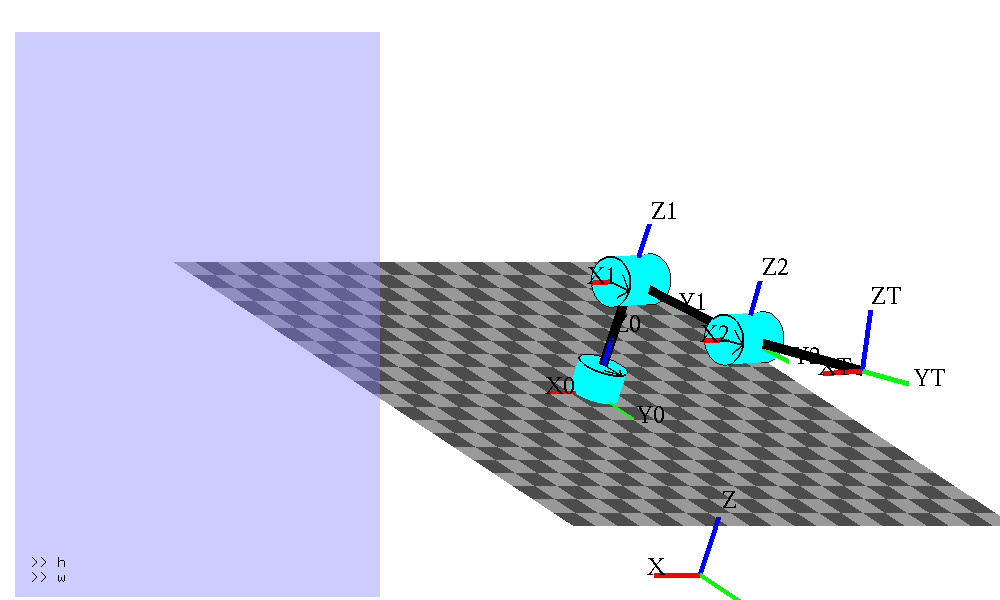
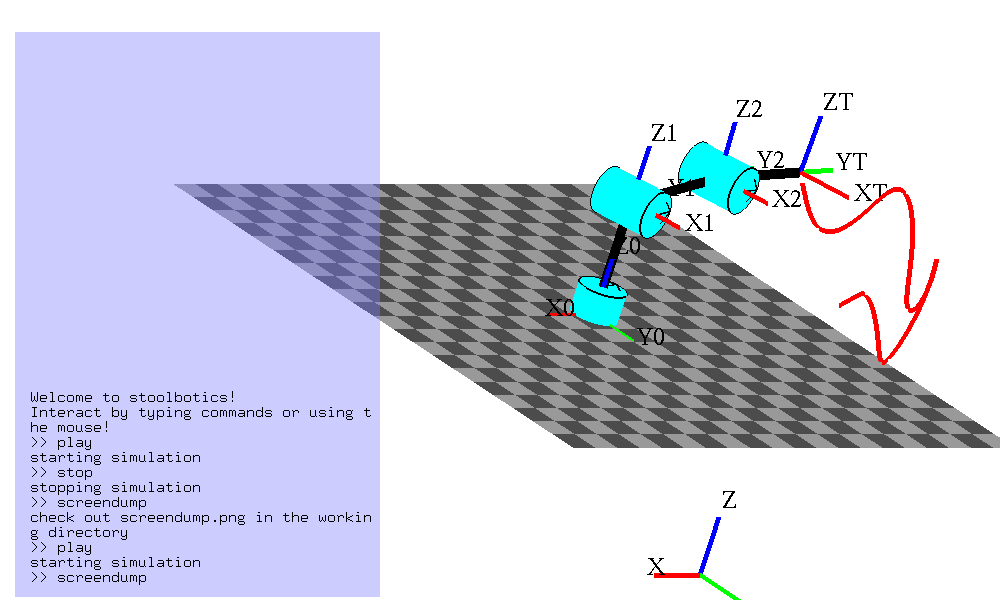
improvements to command line

diff --git a/simulator.py b/simulator.py
@@ -43,15 +43,21 @@ class simulator():
         self.room.scale = self.scale
         self.zoom = 1.6
 
+        
+        self.skew_mode = False
+        self.text = []
+        
+        self.prompt = ">> "
+        self.cmd = ''
+        self.cmd_selection = -1
+
         self.robot.forwardkin()
         self.robot.timestep()
         self.robot.print_vars()
         
-        self.text = ['Interact by typing commands or using the mouse!', 'Welcome to stoolbotics!']
-        self.text += " "
-        
-        self.cmd = ''
-        self.cmd_selection = -1
+        self.response_print('Welcome to stoolbotics!')
+        self.response_print('Interact by typing commands or using the mouse!')
+        self.command_print('')
         
     def timestep(self):
         self.robot.forwardkin()
@@ -80,7 +86,6 @@ class simulator():
         self.angleX += changeY
         self.angleY -= changeX
         
-        self.screenprint("Angle = (" + str(round(self.angleX, 2)) + ", " + str(round(self.angleY, 2)) + ")")
         if (self.angleX < 180):
             self.angleX = 180
         if (self.angleX > 360):
@@ -147,19 +152,56 @@ class simulator():
         elif key == GLUT_KEY_DOWN:
             if not self.cmd_selection == -1:
                 self.cmd_selection += 1
+                try:
+                    while self.text[self.cmd_selection][0] != 'c':
+                        self.cmd_selection += 1
+                except:
+                    pass
             if self.cmd_selection == -1:
-                self.cmd = self.text[-1] = ""
+                self.cmd = self.text[-1][1] = ""
             self.transY -= amount
         elif key == GLUT_KEY_UP:
             if not -self.cmd_selection == len(self.text):
                 self.cmd_selection -= 1
+                try:
+                    while self.text[self.cmd_selection][0] != 'c':
+                        self.cmd_selection -= 1
+                except:
+                    pass
             self.transY += amount
-        self.cmd = self.text[-1] = self.text[self.cmd_selection]
+        self.cmd = self.text[-1][1] = self.text[self.cmd_selection][1]
         glutPostRedisplay()
 
     def handle_cmd(self, cmd):
-        pass
-
+        if cmd == '':
+            return
+        elif cmd == 'play':
+            self.response_print('starting simulation')
+            glutIdleFunc(self.timestep)
+        elif cmd == 'stop':
+            self.response_print('stopping simulation')
+            glutIdleFunc(None)
+        elif '+' in cmd or '-' in cmd:
+            for _ in range(cmd.count('+')):
+                self.camera_zoom('in')
+            for _ in range(cmd.count('-')):
+                self.camera_zoom('out')
+        elif cmd == 'skew':
+            self.response_print('entering skew mode')
+            self.skew_mode = True
+        elif cmd == 'f':
+            self.tscale += .01
+        elif cmd == 'd':
+            self.tscale -= .01
+        elif cmd == 'screendump':
+            self.response_print('check out screendump.png in the working directory')
+            s = glReadPixels(0, 0, self.width, self.height, GL_RGB, GL_UNSIGNED_BYTE)
+            img = Image.new('RGB', (self.width, self.height))
+            img.fromstring(s)
+            img2 = img.transpose(Image.FLIP_TOP_BOTTOM)
+            img2.save("screendump.png")
+        else:
+            self.response_print('are you sure that\'s a command?')
     def keyboard(self, key, x, y):
         self._updateMouse(x, y)
         
@@ -168,49 +210,37 @@ class simulator():
         carriagereturn = chr(13)
         newline = chr(10)
 
-        
         if key in [carriagereturn, newline]:
-            self.text.append(" ")
+            if self.cmd[:3] == self.prompt:
+                self.cmd = self.cmd[3:]
             self.handle_cmd(self.cmd)
             self.cmd = ''
+            self.command_print(" ")
+            self.cmd_selection = -1
             print "enter pressed"
         elif key == backspace:
             self.cmd = self.cmd[:-1]
+            self.text[-1][1] = self.cmd
         elif key == esc:
             sys.exit(0)
         else:
             self.cmd += key
-        self.text[-1] = self.cmd
+            self.text[-1][1] = self.cmd
         
         glutPostRedisplay()
         return
-        if key == 'p':
-            glutIdleFunc(self.timestep)
-        elif key == 's':
-            glutIdleFunc(None)
-        elif key == '+':
-            self.camera_zoom('in')
-        elif key == '-':
-            self.camera_zoom('out')
-        elif key == 'f':
-            self.tscale += .01
-        elif key == 'd':
-            self.tscale -= .01
-        elif key == 'y':
-            s = glReadPixels(0, 0, self.width, self.height, GL_RGB, GL_UNSIGNED_BYTE)
-            img = Image.new('RGB', (self.width, self.height))
-            img.fromstring(s)
-            img2 = img.transpose(Image.FLIP_TOP_BOTTOM)
-            img2.save("screendump.png")
         
+    def command_print(self, text):
+        self.text.append(['c', text])
         
-    def screenprint(self, text):
-        self.text.append(text)
+    def response_print(self, text):
+        self.text.append(['r', text])
     
     def draw(self):
         glClear(GL_COLOR_BUFFER_BIT | GL_DEPTH_BUFFER_BIT)
         
         glPushMatrix()
+        
         #looking at x/y plane - down z axis
         glTranslatef(self.transX, self.transY, self.transZ)
         
@@ -234,7 +264,7 @@ class simulator():
         display.draw_axes(self.zoom*13, '')
         
         glPopMatrix()
-
+        
         glPushMatrix()
         glTranslatef(-self.zoom*.094*self.width, -self.zoom*.094*self.height, 400.0)
         
@@ -255,14 +285,14 @@ class simulator():
         
         self.text = self.text[-36:]
         
-        prompt = ">> "
         for i in range(len(self.text)):
-            if self.text[i][:len(prompt)] != prompt:
-                self.text[i] = prompt + self.text[i]
-        
+            if self.text[i][0] == 'c':
+                if self.text[i][1][:len(self.prompt)] != self.prompt:
+                    self.text[i][1] = self.prompt + self.text[i][1]
         i = 0
         max_line_chr = 38
         for text in reversed(self.text):
+            text = text[1]
             if len(text) <= max_line_chr:
                 glPushMatrix()
                 display.text_at_pos(0, self.zoom*i*3, 0, text, font=GLUT_BITMAP_9_BY_15)
